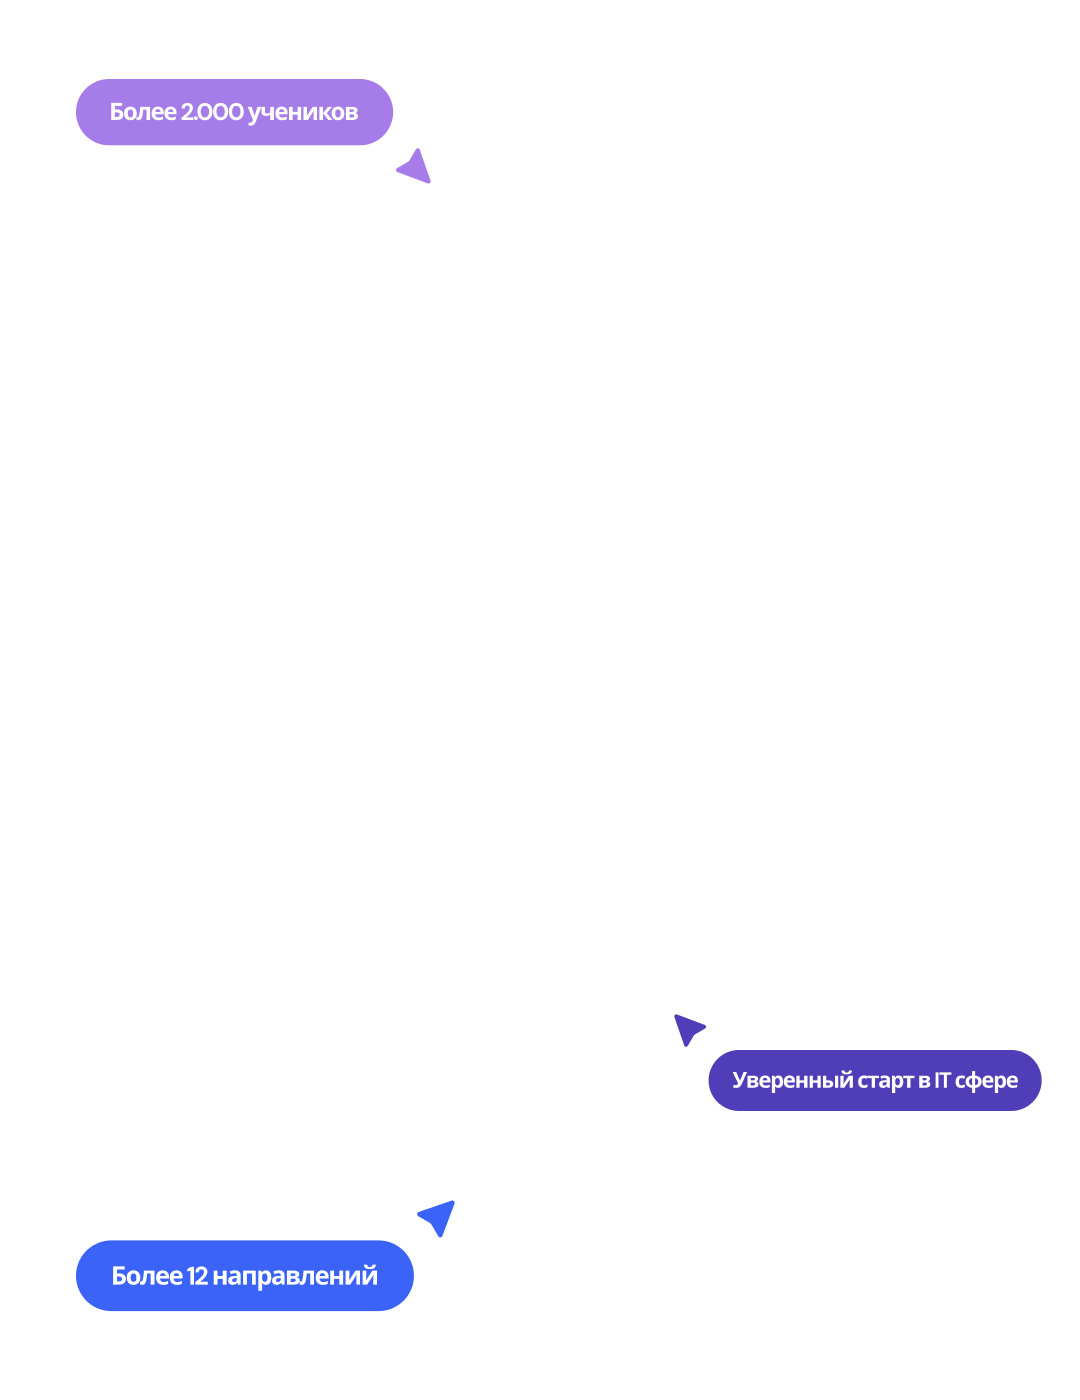
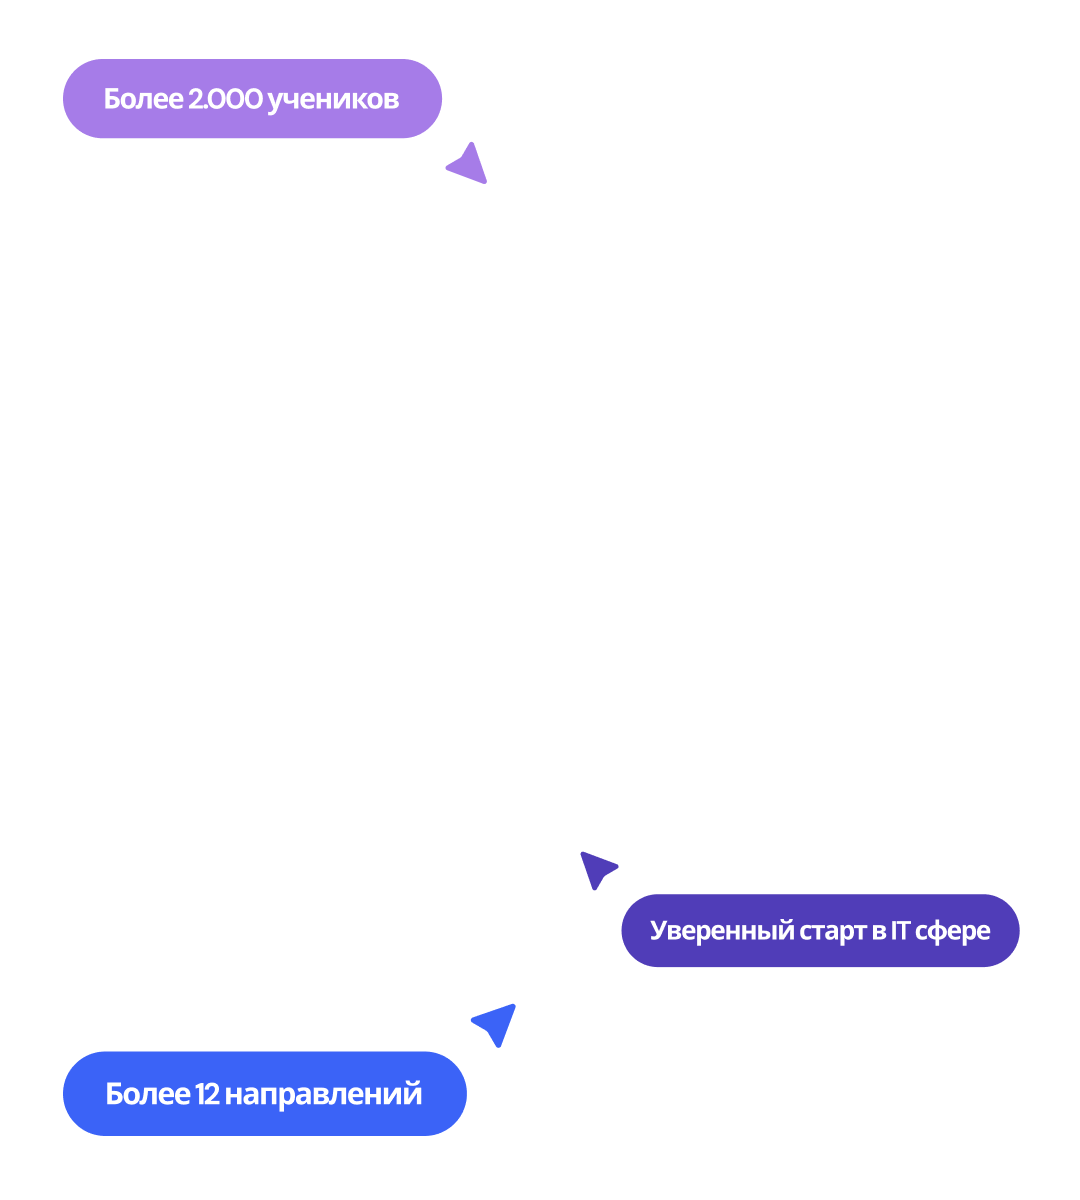
fix hero2

diff --git a/css/style.css b/css/style.css
@@ -2013,13 +2013,28 @@ select:focus-visible {
 
 
 
+  .hero {
+    min-height: 360px;
+  }
+
+  .hero__title {
+    font-size: 1.65rem;
+  }
+
+  .hero__inner {
+    padding: 40px 16px;
+  }
+}
+
+@media (max-width: 640px) and (pointer: coarse) {
   /* На телефонах можно использовать отдельные PNG-картинки:
      images/hero-bg-mobile.png
      images/hero-bg-mobile-dark.png */
   .hero {
-    min-height: 520px;
+    min-height: 1200px;
     background-size: cover;
     background-position: center bottom;
+    align-items: flex-start;
   }
 
   [data-theme='light'] .hero {
@@ -2030,12 +2045,8 @@ select:focus-visible {
     background-image: url('../images/hero-bg-mobile-dark.png');
   }
 
-  .hero__title {
-    font-size: 1.65rem;
-  }
-
   .hero__inner {
-    padding: 40px 16px 280px;
+    padding: 16px 16px 280px;
   }
 }
 